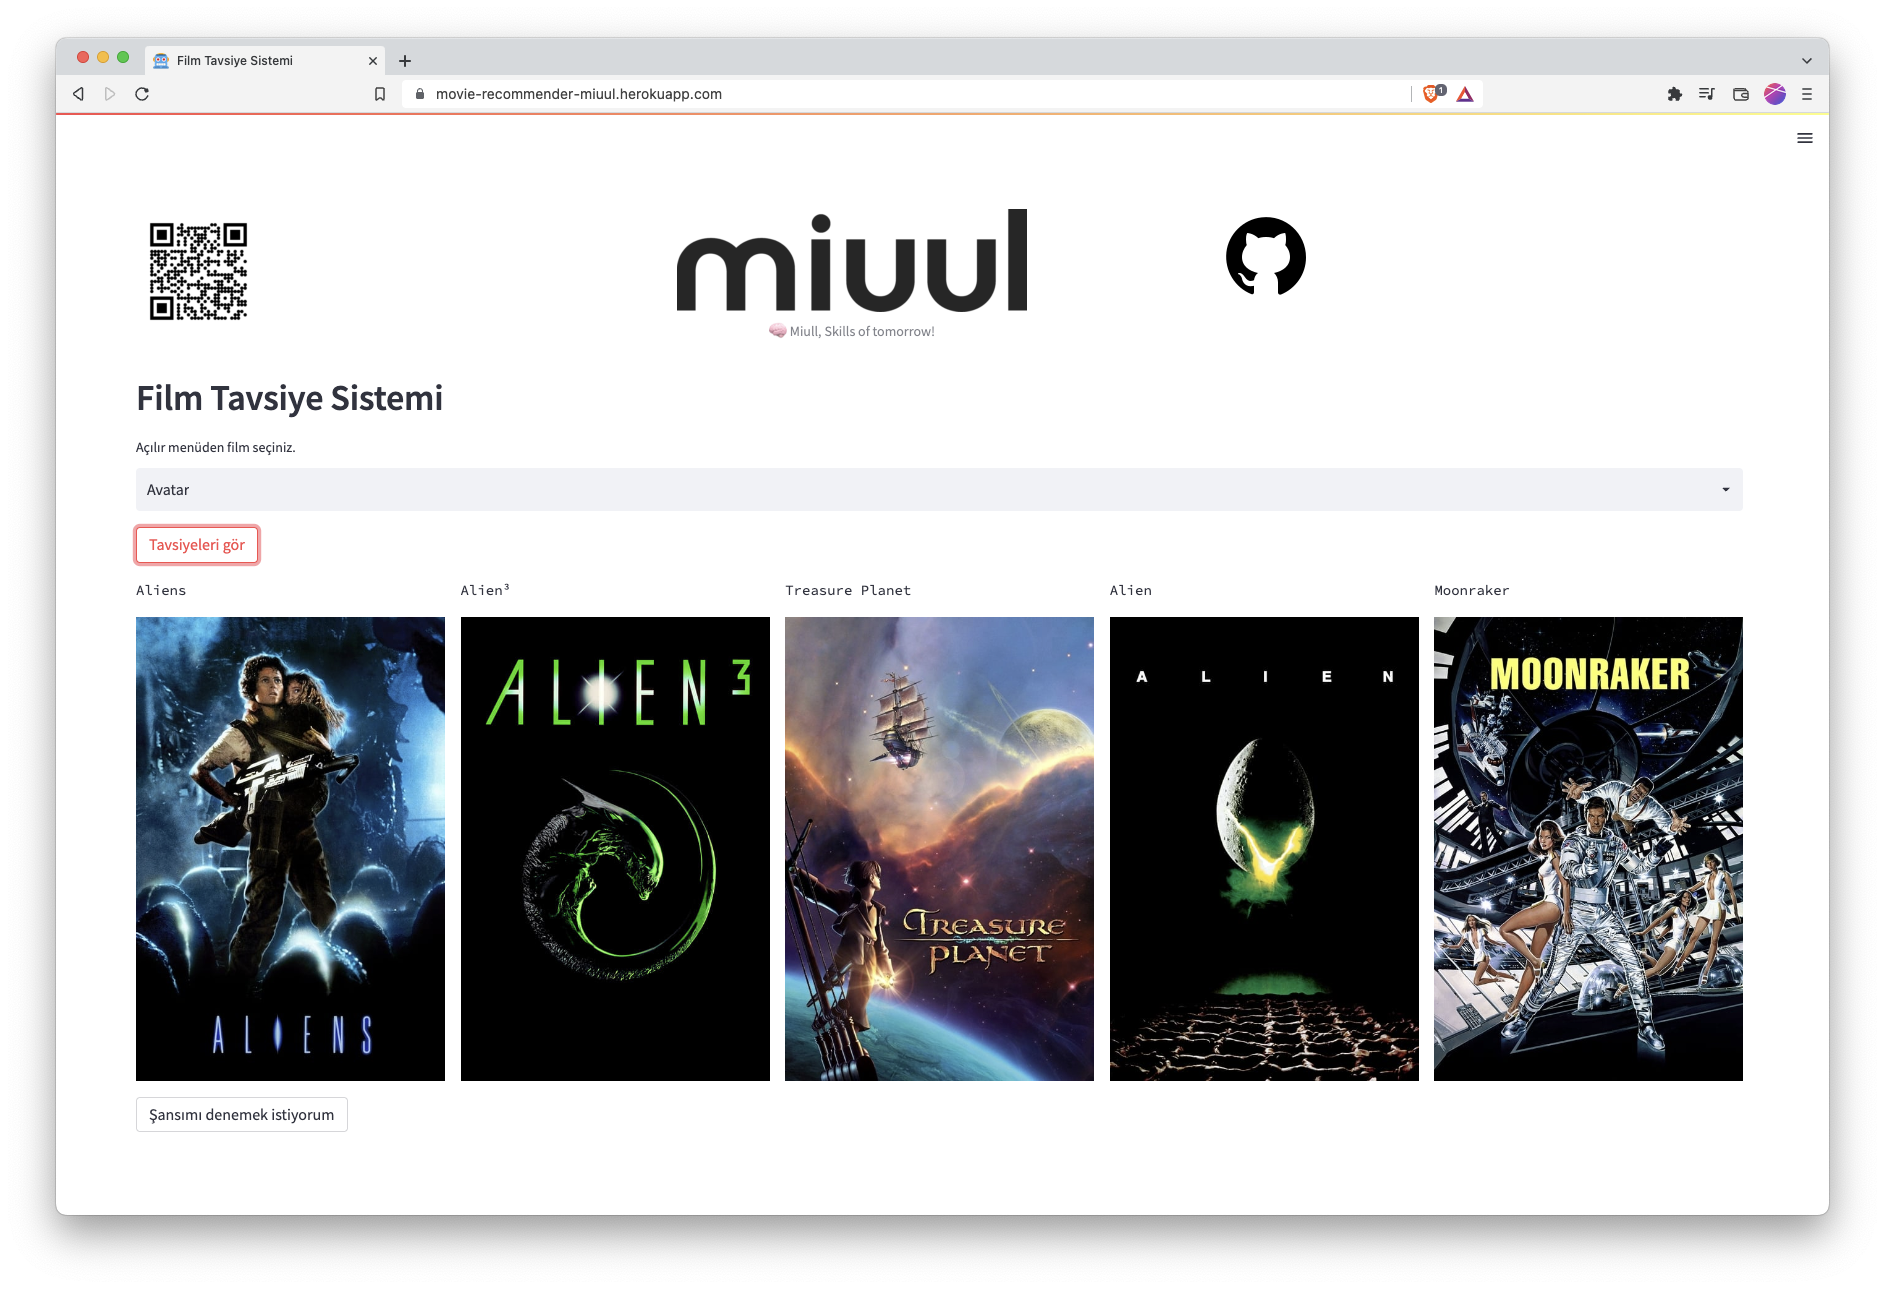
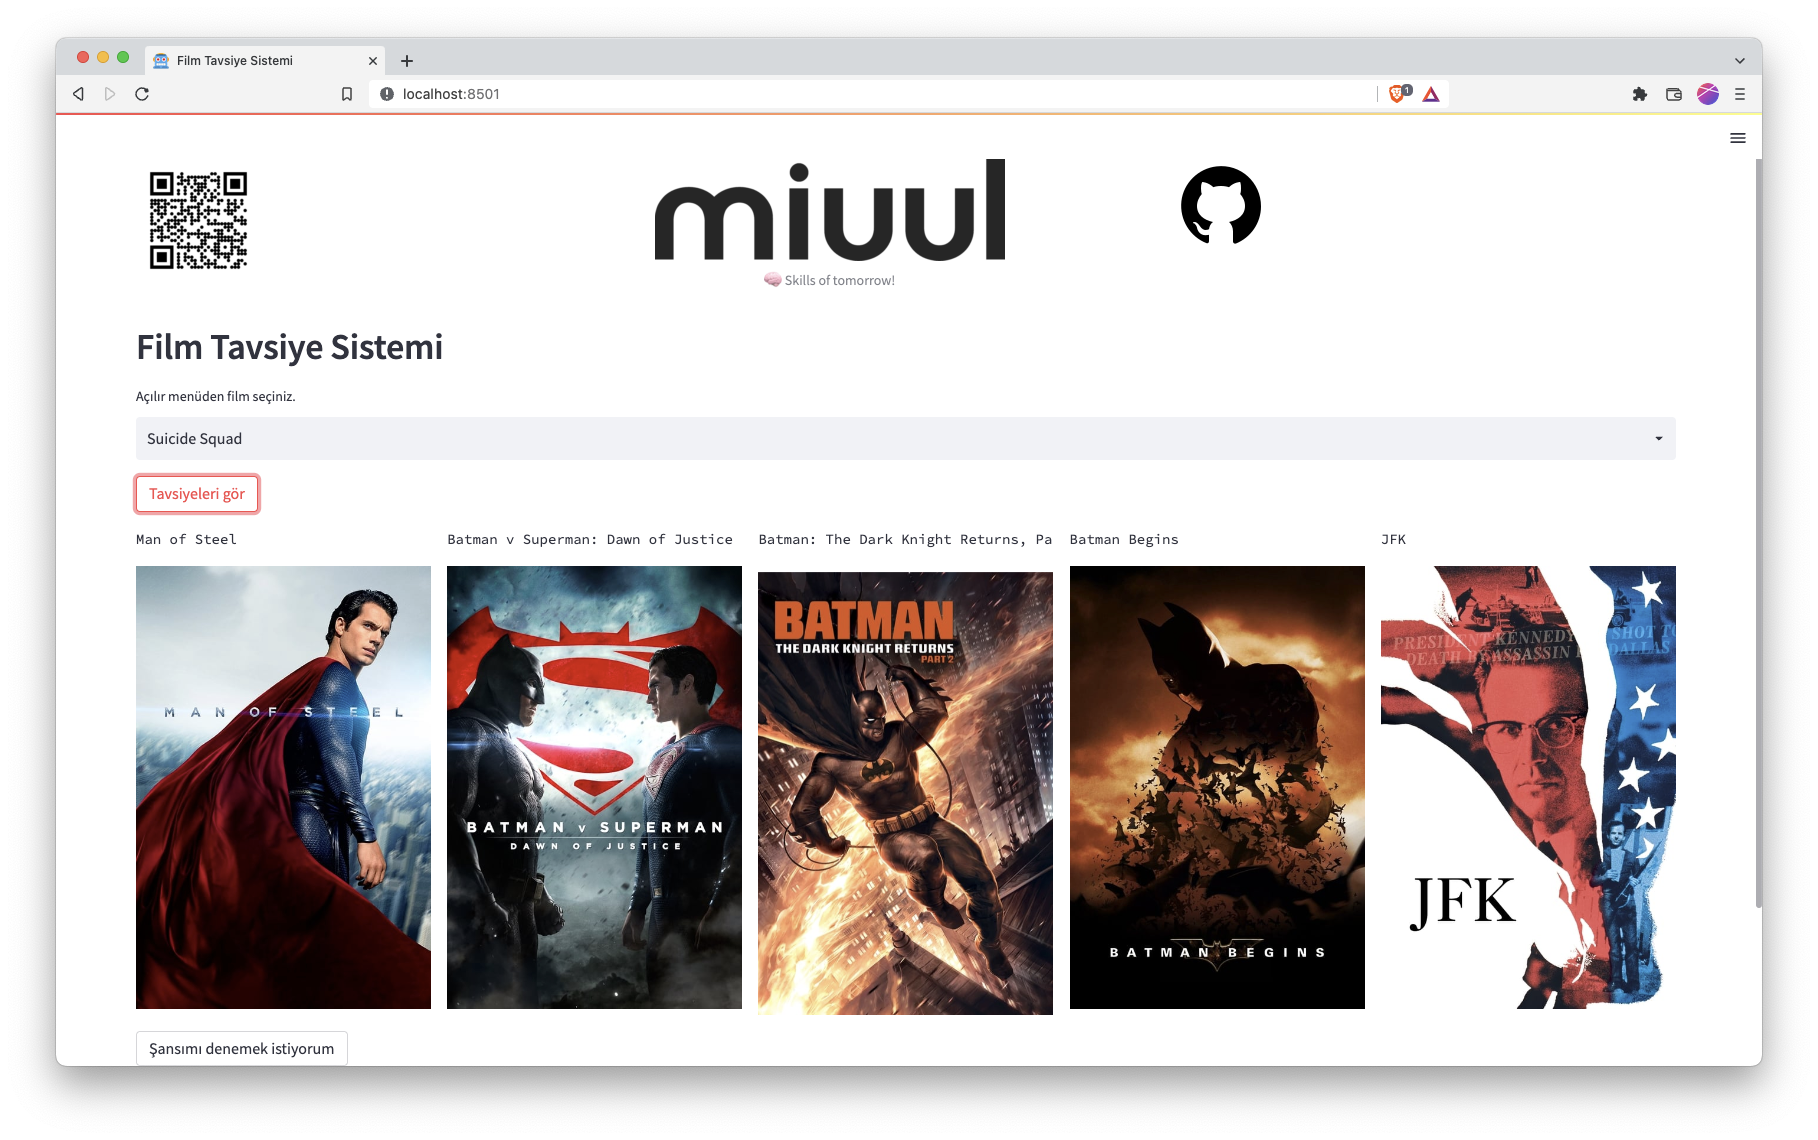
read me updated, app.py typo fixed

diff --git a/app.py b/app.py
@@ -56,10 +56,10 @@ with col1:
     st.image(frame, width=125)
 
 with col2:
-    st.image(logo, caption='🧠 Miull, Skills of tomorrow!', width=350)
+    st.image(logo, caption='🧠 Skills of tomorrow!', width=350)
 
 with col3:
-    st.markdown("[![Foo](https://img.icons8.com/material-outlined/96/000000/github.png)](https://github.com/oguzerdo)")
+    st.markdown("[![Foo](https://img.icons8.com/material-outlined/96/000000/github.png)](https://github.com/oguzerdo/Movie-Recommendation-System)")
 
 st.header('Film Tavsiye Sistemi')
 

diff --git a/README.md b/README.md
@@ -35,7 +35,7 @@ Aşağıdaki adresten Herokuya kayıt olalım.
 
 Yeni bir proje oluşturalım.
 
-![Untitled](images/Untitled%201.png)
+![Untitled](images/Untitled%201.gif)
 
 Projemize bir isim verelim ve lokasyon bilgisini seçerek **Create app** ile devam edelim.
 
